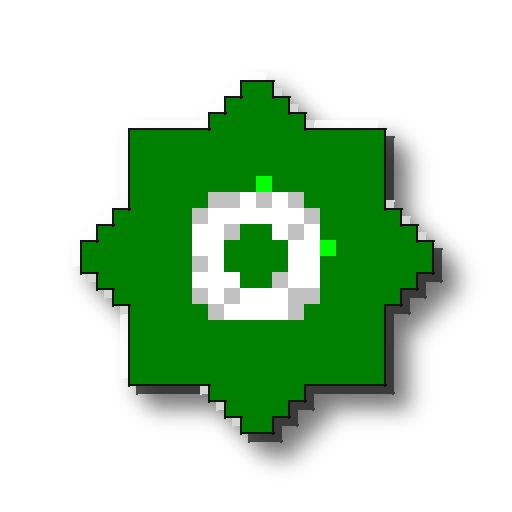
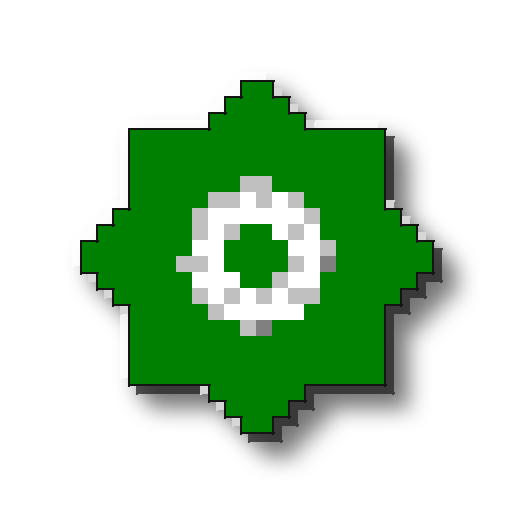
Raise win95 saturation threshold (0.15->0.22) to stop gray specks in anti-aliased edges; auto-bump dither spread to 60 for win95 so flat regions actually show checkerboard texture instead of one solid color

diff --git a/chunkify95.py b/chunkify95.py
@@ -54,7 +54,7 @@ WIN95_HUE_FAMILIES = {
 }
 
 
-def nearest_win95_color(r, g, b, sat_threshold=0.15):
+def nearest_win95_color(r, g, b, sat_threshold=0.22):
     """Hue-aware nearest-color lookup for the fixed win95 palette: pixels
     below the saturation threshold match among black/gray/silver/white by
     brightness only; everything else matches to the closest hue family
@@ -62,6 +62,14 @@ def nearest_win95_color(r, g, b, sat_threshold=0.15):
     closer in brightness. Two separate decisions (hue, then lightness)
     instead of one combined RGB distance, which is what lets an actually
     purple pixel land on purple instead of gray.
+
+    sat_threshold started at 0.15 and still let faint anti-aliasing pixels
+    through: a pale green-white edge blend like (173, 195, 170), sat 0.13,
+    has just enough saturation to read as "basically white" to a person but
+    not enough to clear 0.15, so it fell into the achromatic branch and
+    matched gray/silver by brightness, showing up as stray gray specks
+    inside otherwise-white regions. 0.22 routes those through to their
+    actual (faint) hue instead.
     """
     h, s, v = colorsys.rgb_to_hsv(r / 255, g / 255, b / 255)
     if s < sat_threshold:
@@ -142,7 +150,7 @@ def ordered_dither(img_rgb, palette_colors, spread=40, match_fn=None):
     return out
 
 
-def pixelate_and_quantize(img, grid, colors, palette="adaptive", dither_spread=40):
+def pixelate_and_quantize(img, grid, colors, palette="adaptive", dither_spread=None):
     """The "pixel analyze" pass: downsample to a small grid (area-averaging,
     so each output pixel is the dominant color of its source block, not just
     a sample), then quantize with ordered dithering (see ordered_dither) at
@@ -158,6 +166,15 @@ def pixelate_and_quantize(img, grid, colors, palette="adaptive", dither_spread=4
     nearest_win95_color rather than plain RGB distance (which routes most
     medium-saturation colors to gray regardless of actual hue: see that
     function's docstring).
+
+    dither_spread=None picks a palette-appropriate default: 40 for
+    adaptive, 60 for win95. win95 needs more: its hue-family matching only
+    has two brightness levels (dark/bright) to dither between per hue, a
+    coarser decision than an adaptive palette's finer-grained colors, so a
+    flat-shaded region needs a stronger perturbation before the dither
+    threshold actually pushes any pixels across that boundary. Below 60 a
+    lot of flat regions come out as one solid color with no texture at all
+    instead of the checkerboard shading real icons use.
     """
     w, h = img.size
     size = max(w, h)
@@ -170,10 +187,12 @@ def pixelate_and_quantize(img, grid, colors, palette="adaptive", dither_spread=4
 
     small = square.convert("RGB").resize((grid, grid), Image.BOX)
     if palette == "win95":
-        quantized_rgb = ordered_dither(small, WIN95_PALETTE, spread=dither_spread, match_fn=nearest_win95_color)
+        spread = dither_spread if dither_spread is not None else 60
+        quantized_rgb = ordered_dither(small, WIN95_PALETTE, spread=spread, match_fn=nearest_win95_color)
     else:
+        spread = dither_spread if dither_spread is not None else 40
         palette_colors = build_adaptive_palette(small, colors)
-        quantized_rgb = ordered_dither(small, palette_colors, spread=dither_spread)
+        quantized_rgb = ordered_dither(small, palette_colors, spread=spread)
 
     small_alpha = alpha.resize((grid, grid), Image.BOX).point(lambda p: 255 if p > 96 else 0)
 
@@ -266,7 +285,7 @@ def add_drop_shadow(img, offset=None, blur=None, opacity=140):
     return canvas
 
 
-def chunkify95(img, pixel_grid=24, colors=12, bevel=True, shadow=True, outline=True, palette="adaptive", dither_spread=40):
+def chunkify95(img, pixel_grid=24, colors=12, bevel=True, shadow=True, outline=True, palette="adaptive", dither_spread=None):
     img = img.convert("RGBA")
     out = pixelate_and_quantize(img, pixel_grid, colors, palette, dither_spread)
     if outline:
@@ -287,7 +306,8 @@ def main():
     p.add_argument("--colors", type=int, default=12, help="adaptive palette size, ignored unless --palette adaptive (default: 12)")
     p.add_argument("--palette", choices=["adaptive", "win95"], default="adaptive",
                     help="adaptive (default): best-fit palette per image, keeps real color fidelity. win95: real fixed 16-color VGA palette, more period-accurate but loses hues with no close match.")
-    p.add_argument("--dither-spread", type=int, default=40, help="ordered-dither strength, 0 disables (default: 40)")
+    p.add_argument("--dither-spread", type=int, default=None,
+                    help="ordered-dither strength, 0 disables (default: 40 for adaptive, 60 for win95)")
     p.add_argument("--bevel", dest="bevel", action="store_true", default=True)
     p.add_argument("--no-bevel", dest="bevel", action="store_false")
     p.add_argument("--shadow", dest="shadow", action="store_true", default=True)

diff --git a/README.md b/README.md
@@ -42,7 +42,8 @@ Options:
                     real color fidelity. win95: the real fixed 16-color
                     VGA palette, hue-matched (see "Palettes" below),
                     more period-accurate but still fewer colors overall.
---dither-spread N  ordered-dither strength, 0 disables (default: 40)
+--dither-spread N  ordered-dither strength, 0 disables (default: 40
+                    adaptive, 60 win95, see "Palettes")
 --no-bevel         skip the 3D bevel pass
 --no-shadow        skip the drop shadow
 --no-outline       skip the black silhouette outline
@@ -117,9 +118,28 @@ closest *hue family* first, then picks that family's dark or bright variant
 by brightness. Two decisions instead of one combined distance, and colors
 land on an actually-related hue instead of the desaturated middle color.
 
-The default `adaptive` palette doesn't need this: it's built from the
+Two more win95-specific adjustments came out of testing this against real
+icons. The saturation threshold for "count this as gray" started at 0.15
+and still let faint anti-aliasing pixels through: a pale green-white edge
+blend with sat 0.13 reads as "basically white" to a person but not enough
+to clear 0.15, so it fell into the achromatic branch and showed up as stray
+gray specks inside otherwise-clean white regions. Raised to 0.22, and those
+pixels correctly keep their faint hue instead.
+
+Separately, a flat-shaded region can come out as one solid color with no
+texture at all: once a pixel picks "blue family, bright variant," most of
+a same-brightness region around it picks the exact same variant, since
+there's no gradient pushing any of it toward the dark half. The dither
+perturbation needs to be strong enough to actually push some pixels across
+that dark/bright boundary, and the default 40 (tuned against the finer-
+grained adaptive palette) usually isn't. `--dither-spread` defaults to 60
+specifically for `--palette win95` to compensate, which is what the
+checkerboard texture in the sample below actually comes from.
+
+The default `adaptive` palette doesn't need either fix: it's built from the
 image's own colors, so nothing in it is competing with gray for pixels that
-clearly aren't gray. If you do use `--palette win95`, also raise
+clearly aren't gray, and its finer-grained palette dithers visibly at the
+default spread already. If you do use `--palette win95`, also raise
 `--pixel-grid` (32 works well). More spatial resolution gives the dither
 pattern more room to carry detail the smaller palette can't represent
 directly.
